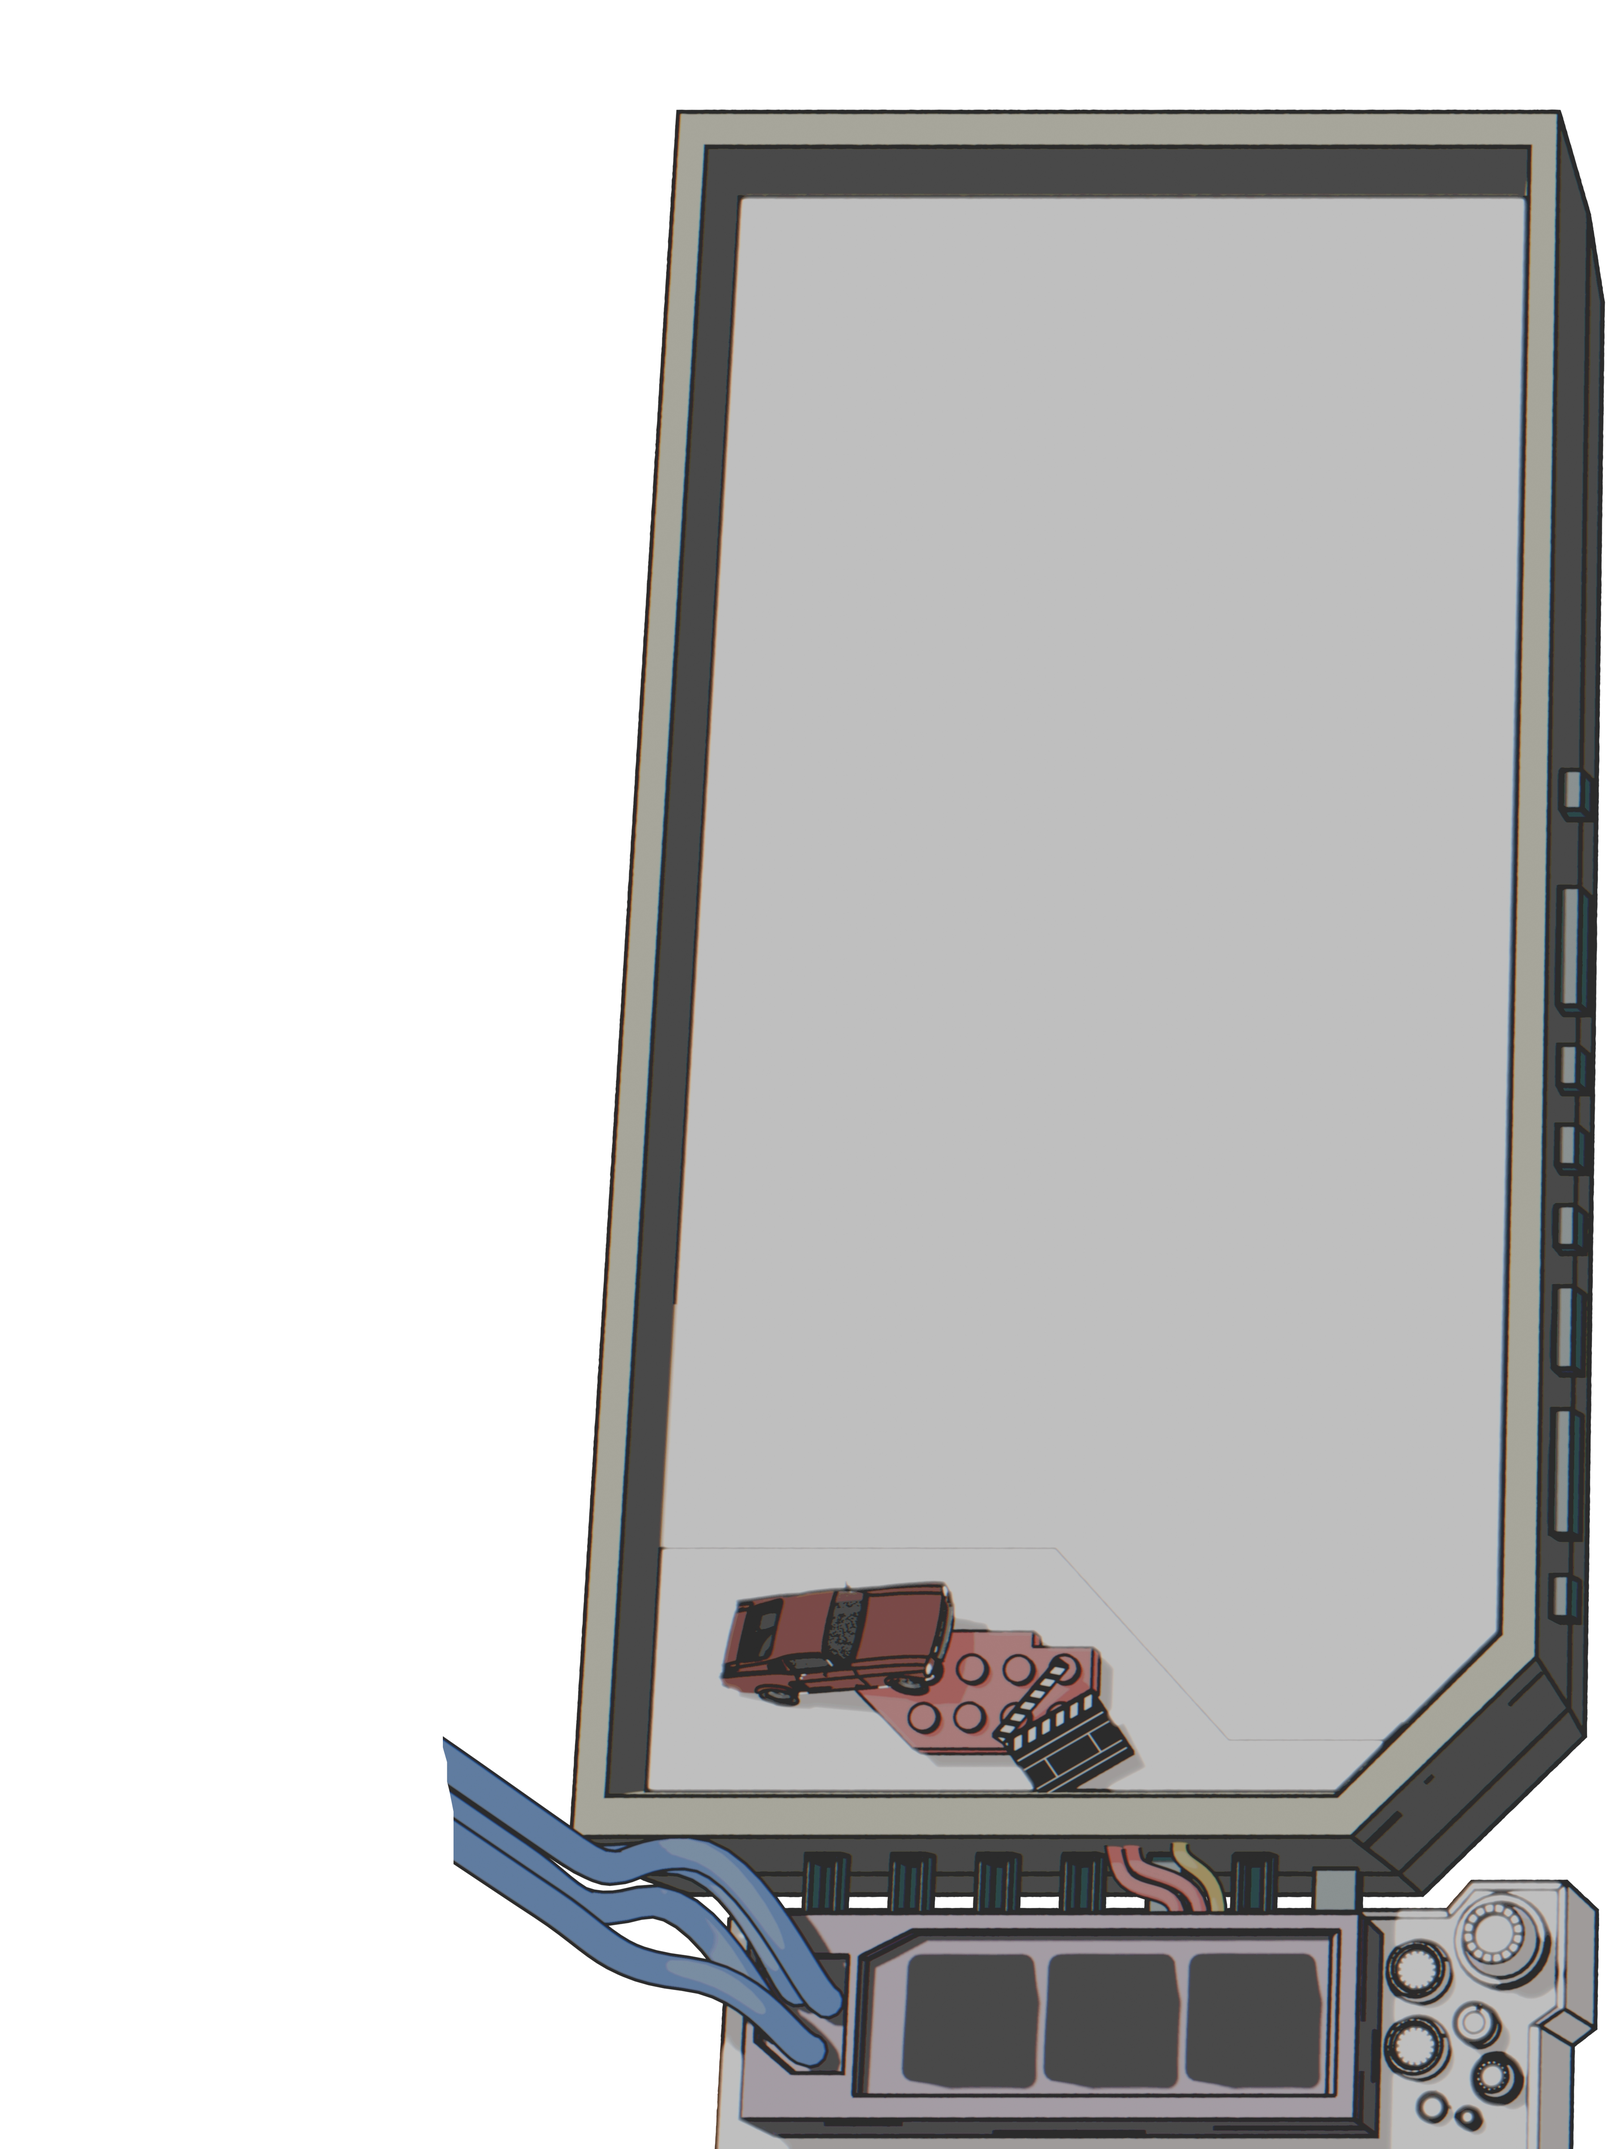
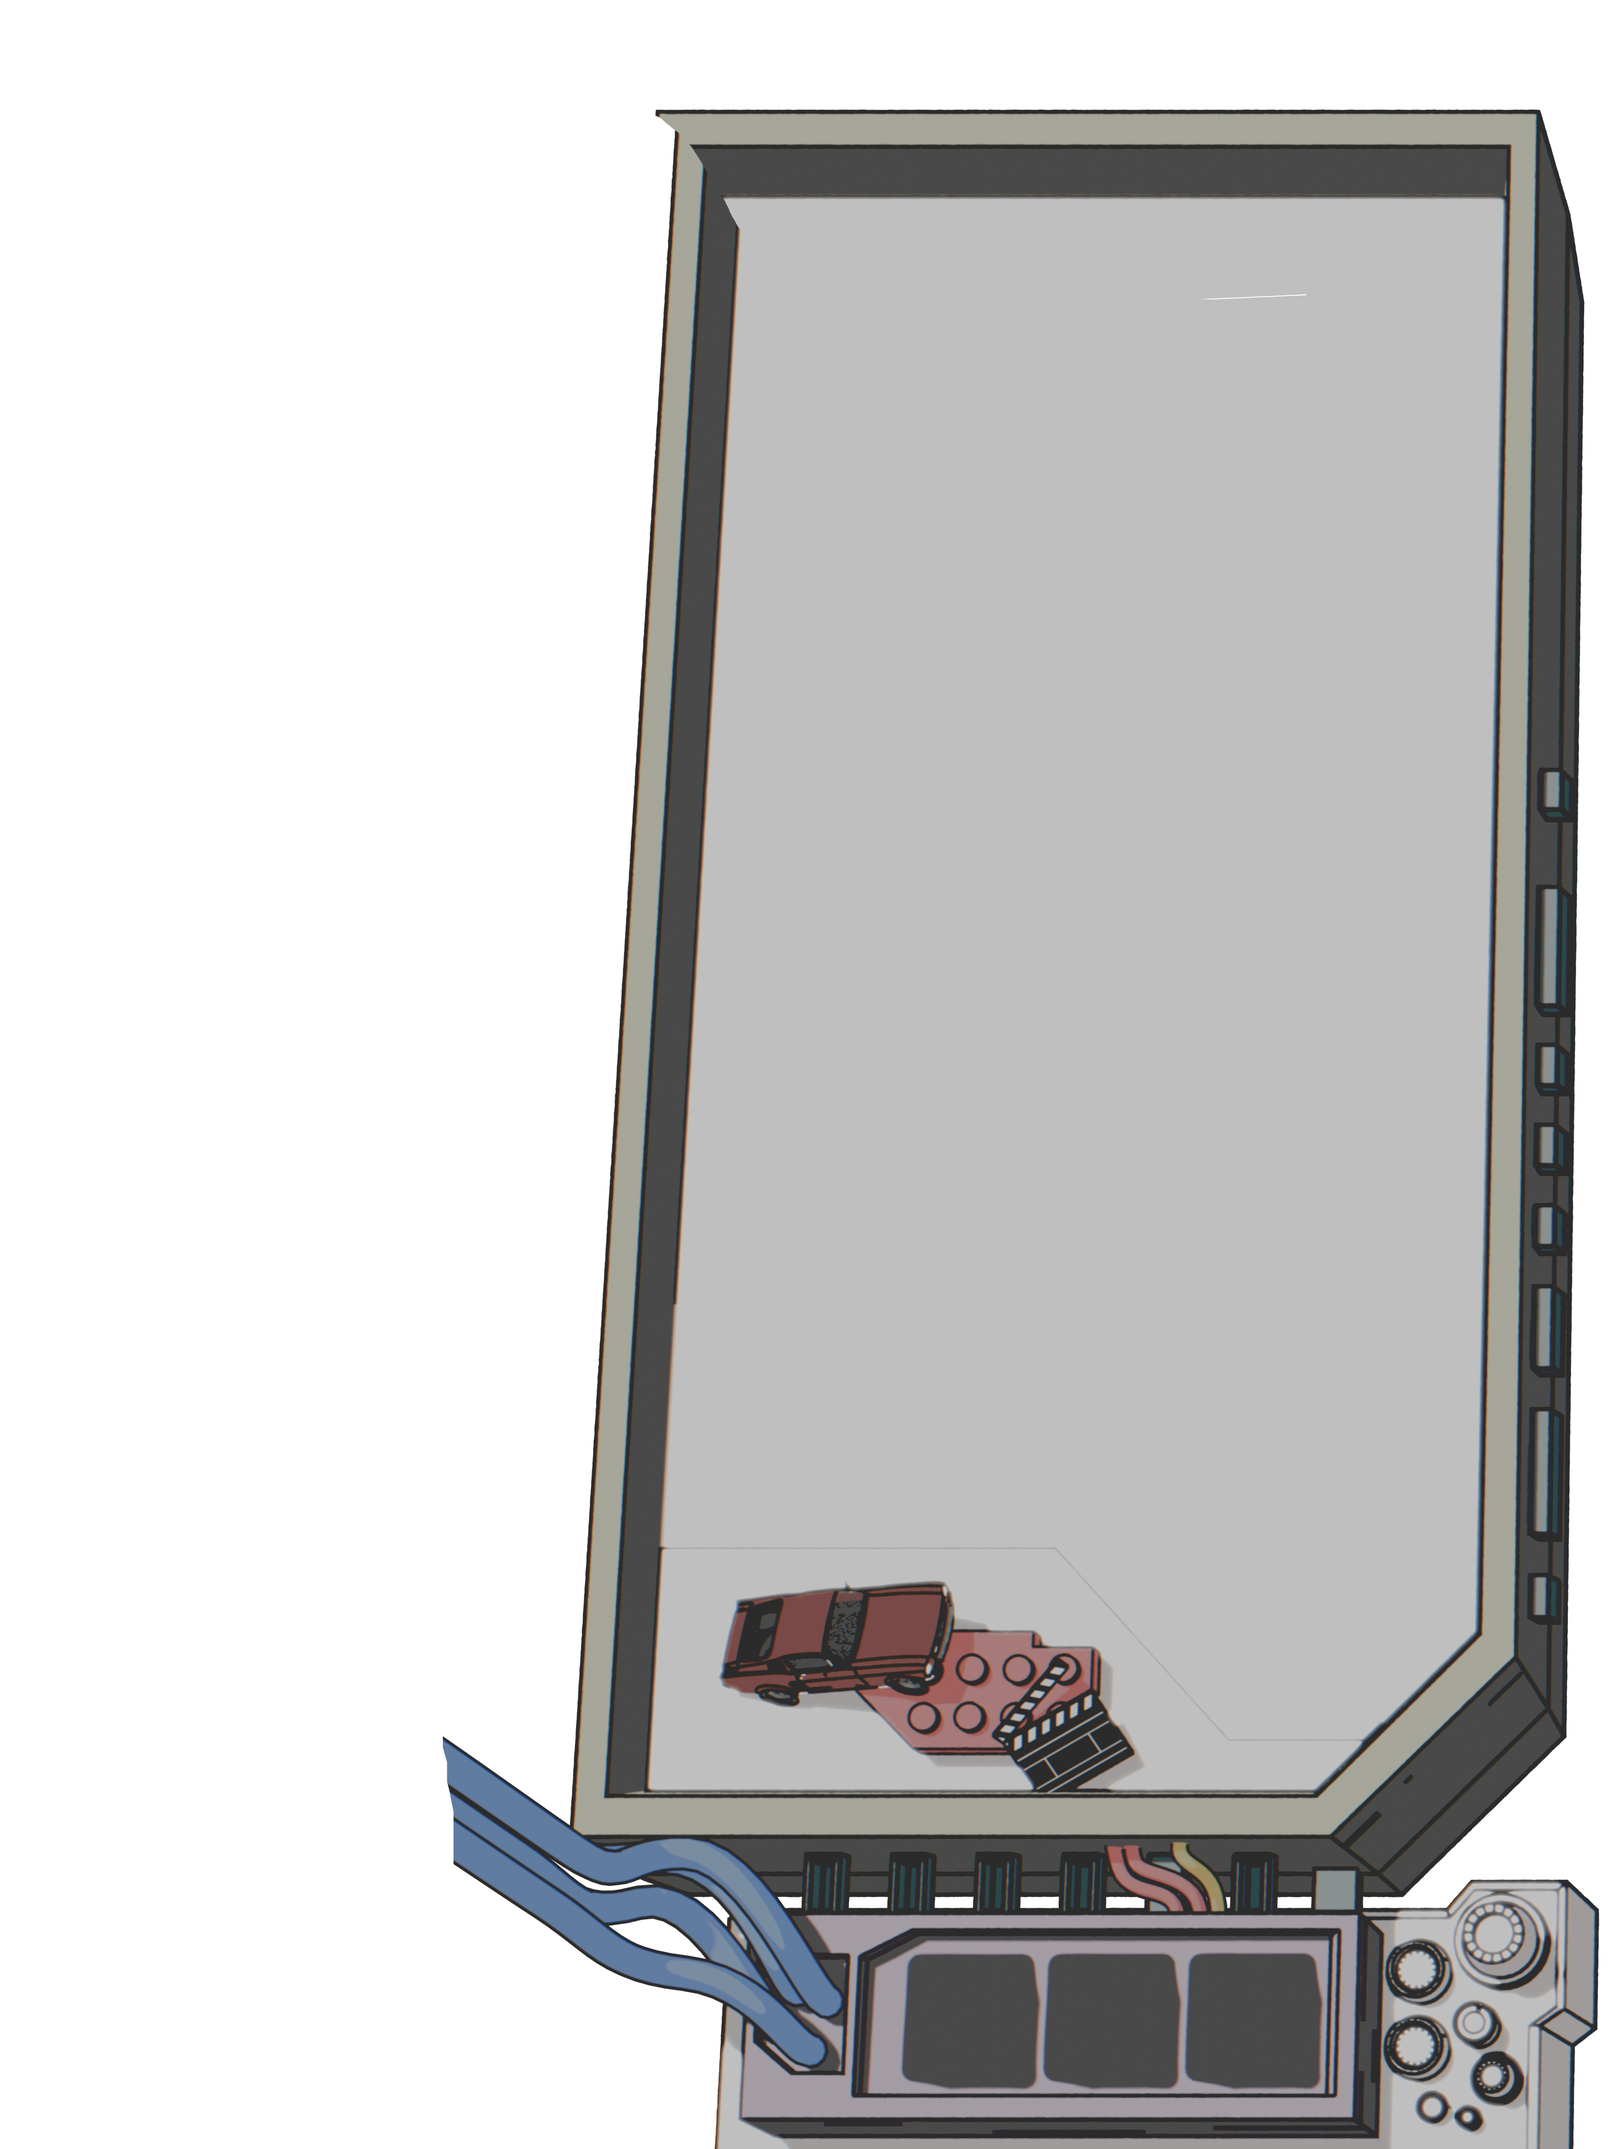
Avancement Fiche projets + bouton retour aux projets en mobile

Changed region(s): [[0.8089, 0.0312, 0.9956, 0.9062], [0.4044, 0.0312, 0.4356, 0.0625]]

diff --git a/src/ProjectPage.jsx b/src/ProjectPage.jsx
@@ -2,92 +2,139 @@ import { useEffect, useRef, useState } from "react";
 import HoverCard from "./Components/hovercard";
 
 const cards = [
-  { title: "Briqueton", image: "lego.webp", video: "Lego.webm", techno: ["Unreal Engine", "Blender"] },
-  { title: "Bomberman", image: "bomberman.webp", video: "bomberman.webm", techno: ["Unreal Engine", "C++", "Blender", "Krita"] },
-  { title: "Make Your Stand", image: "mys.webp", techno: ["Unreal Engine", "ReactJS", "Blender", "Pixel Streaming"] },
-  { title: "Game Jam 'One\u00A0Room'", image: "flyme.webp", techno: ["Unreal Engine", "Blender"] },
-  { title: "Aigle", image: "aigle.webp", techno: ["Unreal Engine", "ReactJS", "Pixel Streaming"] },
+  { title: "Game Jam 'One\u00A0Room'", image: "flyme.webp", logo: "unreal.webp", techno: ["Unreal Engine", "Blender"],Description:"Projet réalisé en trio courant 2025. Dans ce projet je me suis principalement occupé de la partie 3d (Environnement, Player, Level Design), pendant que mes coéquipiers se sont occupés du Gameplay et de l'Audio. Le But du jeu est de trouver et délivrer les mouches caché dans la pièce, en esquivant les pièges" },
+  { title: "Briqueton", image: "lego.webp", video: "Lego.webm", logo: "unreal.webp", techno: ["Unreal Engine", "Blender"], Description:"Projet réalisé en 2024 à l'occasion d'un challenge proposé par le Youtuber @MATHIEU_YT. Dans ce projet je me suis principalement occupé de la partie 3d (Environnement, Player, Level Design), pendant que mon coéquipier s'est occupé du Gameplay et de l'Audio." },
+  { title: "Bomberman", image: "bomberman.webp", video: "bomberman.webm", logo: "unreal.webp", techno: ["Unreal Engine", "C++", "Blender", "Krita"] },
+  { title: "Make Your Stand", image: "mys.webp", logo: "unreal.webp", techno: ["Unreal Engine", "ReactJS", "Blender", "Pixel Streaming"] },
+  { title: "Aigle", image: "aigle.webp", logo: "react.webp", techno: ["Unreal Engine", "ReactJS", "Pixel Streaming"] },
+  { title: "Restootab", image: "restootab.webp", logo: "react.webp", techno: ["Unreal Engine", "ReactJS", "Pixel Streaming"] },
   { title: "Aigle", image: "", techno: ["Unreal Engine", "ReactJS", "Pixel Streaming"] },
-  { title: "Aigle", image: "", techno: ["Unreal Engine", "ReactJS", "Pixel Streaming"] },
-
 
 ];
 
 
 
-export default function Projects({CurrentMenu}) {
+export default function Projects({ CurrentMenu }) {
 
-  const [currentProject, setCurrentProject] = useState(null)
+  const [currentProject, setCurrentProject] = useState(null);
+  const [inProjectList, setInProjectList] = useState(true)
+
   const base = import.meta.env.BASE_URL;
 
   const handleClick = (project) => {
     console.log(project);
-
+    setInProjectList(false);
     setCurrentProject(currentProject && currentProject?.title == project.title ? null : project);
+  };
+
+  const handleReturn = () => {
+    setInProjectList(true);
+    setTimeout(() => {
+      setCurrentProject(null);
+    }, 500);
+    //setCurrentProject(currentProject && currentProject?.title == project.title ? null : project);
   };
 
   useEffect(() => {
     console.log(CurrentMenu);
   }, [CurrentMenu])
-  
+
 
   return (
     <div className=" h-full overflow-hidden xl:pl-4">
       <div className="absolute h-[100%] xl:w-[90%] w-full xl:ml-2  justify-center  overflow-hidden xl:p-4  z-0">
         {(
-          <div className="w-full h-full xl:p-6 xl:border-4 xl:border-b-6 xl:border-r-8 border-gris xl:shadow-abberation bg-[#ababab] ">
+          <div className="relative w-full h-full xl:p-6 xl:border-4 xl:border-b-6 xl:border-r-8 border-gris xl:shadow-abberation bg-[#ababab] ">
+
             <div className="absolute h-full w-full z-0 bg-[url('/Images/Grid.png')] bg-center bg-cover opacity-30 pointer-events-none"></div>
 
             <div className="w-full h-full xl:border-4 z-20 xl:border-t-8 xl:border-r-8 lg:p-8 border-blur border-gris overflow-hidden bg-radial from-green-950 from-20% to-[#101010]">
+              
+              
+              
+              
+              
               <div className="h-full w-full flex-col lg:border-2 lg:border-vert flex lg:shadow-neonblanc ">
+                <div className="h-20 items-center justify-between px-4 flex flex-row pointer-events-auto ">
 
-                <div className="h-24 items-center justify-between px-4 flex flex-row pointer-events-auto ">
-
-                  <div className=" lg:text-4xl text-2xl select-none text-shadow-neonblanc">
-                    {currentProject?.title}
+                    <div className=" lg:text-4xl text-2xl select-none  text-shadow-neonblanc">
+                      {currentProject?.title}
+                    </div>
+                    <div className="text-vert  xl:block hidden  lg:text-5xl text-2xl right-32  cursor-pointer  text-shadow-neonblanc z-5  " onClick={() => { handleReturn() }}>{"<--"}</div>
                   </div>
-                  <div className="text-vert flex   lg:text-5xl text-2xl right-32  cursor-pointer  text-shadow-neonblanc z-5  " onClick={() => { setCurrentProject(null) }}>{"<--"}</div>
-                </div>
-                {
-                  currentProject?.techno && <div className="flex flex-wrap">
-                    {currentProject?.techno.map((text) => (
-                      <div className="px-6 items-center lg:text-xl text-sm">- {text}</div>
-                    ))}
+                  <div className="flex flex-col h-auto w-full py-2">
+                    {
+                      currentProject?.techno && <div className="flex flex-wrap">
+                        {currentProject?.techno.map((text) => (
+                          <div className="pl-4 bold items-center lg:text-xl text-sm">{text} |</div>
+                        ))}
+                      </div>
+                    }
                   </div>
-                }
-                <div className="h-full w-full overflow-scroll">
-                  <div className="w-full flex flex-wrap  h-auto cursor-pointer">
+                
+                  <div className="flex w-full h-1/4 ">
                     <img
                       src={`${base}/projects/${currentProject?.image}`}
                       alt={currentProject?.title}
-                      className="  h-auto w-1/2  "
+                      className="  h-full xl:p-4 p-2  rounded-xl  "
                       loading="lazy"
                     />
-                    <div className="flex flex-col w-1/2 h-full justify-center items-center">ijikiki</div>
-                    <div className="flex flex-col w-1/2 h-full justify-center items-center">ijikiki</div>
+                    <div className="flex flex-col xl:w-2/3  h-full justify-start items-center p-2 text-sm xl:text-lg rounded-xl ">{currentProject?.Description}</div>
+                  </div>
 
+
+                  <div className=" w-full h-auto py-4 justify-start items-start min-h-0 xl:overflow-x-scroll overflow-y-auto  cursor-pointer flex flex-col xl:flex-row">
                     <img
                       src={`${base}/projects/${currentProject?.image}`}
                       alt={currentProject?.title}
-                      className=" flex h-auto w-1/2 right-0"
+                      className=" h-full p-2 rounded-xl "
                       loading="lazy"
                     />
                     <img
                       src={`${base}/projects/${currentProject?.image}`}
                       alt={currentProject?.title}
-                      className="  h-auto w-1/2 "
+                      className="  h-full  p-2 rounded-xl  aspect-video  "
+                      loading="lazy"
+                    />
+                    <img
+                      src={`${base}/projects/${currentProject?.image}`}
+                      alt={currentProject?.title}
+                      className="  h-full  p-2 rounded-xl    "
+                      loading="lazy"
+                    />
+                    <img
+                      src={`${base}/projects/${currentProject?.image}`}
+                      alt={currentProject?.title}
+                      className="  h-full  p-2 rounded-xl    "
                       loading="lazy"
                     />
                   </div>
-                </div>
-
               </div>
+
+
+
+
+
+
+
+
             </div>
           </div>
         )}
 
       </div>
-      <div id='liste' className={`${currentProject ? " xl:translate-x-[97%] translate-x-[100%]  " : " "}flex  flex-row relative xl:border-l-6 w-[100%] bg-[#ababab]  border-gris xl:shadow-abberation transition-transform duration-[500ms]  h-[100%] z-50 `}>
+      <div id='liste' className={`${!inProjectList ? " xl:translate-x-[97%] translate-x-[100%]  " : " "}flex  flex-row relative xl:border-l-6 w-[100%] bg-[#ababab]  border-gris xl:shadow-abberation transition-transform duration-[500ms]  h-[100%] z-50 `}>
+        <div className={`absolute  xl:hidden  -left-[45px] z-20 border-2 h-1/6 rounded-l-2xl bottom-1/8  w-[45px] border-gris  bg-gray-300  `}>
+          <span className="-rotate-90 absolute top-1/2 left-1/2 -translate-x-1/2 -translate-y-1/2 text-gris text-xl font-bold" onClick={() => { handleReturn() }}>
+
+            RETOUR
+          </span>
+
+        </div>
+
+
+
+
         <div className={` xl:block hidden top-0 -left-2 border-r-4  h-full  w-[25px] border-gris  bg-[#666666] `}></div>
 
         <div className="grid w-full grid-cols-2 xl:grid-cols-3 h-full overflow-y-scroll lg:p-4  justify-start xl:gap-6 lg:gap-4 gap-0.5 ">

diff --git a/src/Components/hovercard.jsx b/src/Components/hovercard.jsx
@@ -31,12 +31,19 @@ export default function HoverCard({ project, handler} )  {
               loading="lazy"
             />
           }
+          {project.logo &&
+            <img
+              src={`${base}/Images/${project.logo}`}
+              alt={project.title}
+              className="absolute z-50 object-cover pointer-events-none h-[15%] rounded-4xl backdrop-blur-xs right-2 bottom-2   w-auto "
+              loading="lazy"
+            />}
           <div className="absolute  duration-300  flex items-end  z-50  w-full h-full  justify-center xl:opacity-0 xl:hover:opacity-100 cursor-pointer transition-opacity  ">
             <div onMouseEnter={handleMouseEnter} onMouseLeave={handleMouseLeave} className="  h-full  w-full object-cover">
               <video ref={videoRef} src={`${base}/videos/${project.video}`} className="h-full object-cover pointer-events-none select-none [&::-webkit-media-controls]:hidden" controls={false} muted defaultMuted loop autoPlay preload='auto'   playsInline />
             </div>
             <div className="absolute h-full bottom-0  z-10 w-full bg-[linear-gradient(to_top,_rgba(0,0,0,0.8)_0%,_rgba(0,0,0,0.2)_20%,_transparent_100%)] pointer-events-none"></div>
-            <p className="absolute text-vert lg:text-xl z-50 pb-2 font-bold transition">{project.title}</p>
+            <p className="absolute text-vert lg:text-xl text-sm z-50 xl:pb-2 font-bold transition">{project.title}</p>
           </div>
         </div>
 

diff --git a/src/App.jsx b/src/App.jsx
@@ -22,8 +22,18 @@ function App() {
       ]
     ;
 
+  const [offset, setOffset] = useState({ x: 0, y: 0 });
+
+  const handleMouseMove = (e) => {
+    const { innerWidth, innerHeight } = window;
+    const x = (e.clientX / innerWidth - 0.5) * -10; // sensibilité
+    const y = (e.clientY / innerHeight - 0.5) * -10;
+    setOffset({ x, y });
+  };
+
   return (
-    <div className='h-screen w-screen font-Victor flex xl:flex-row flex-col bg-[] bg-cover bg-bottom-left  overflow-x-hidden' style={{backgroundImage: `url(${Background})`}}>
+    <div className='h-screen w-screen font-Victor flex xl:flex-row flex-col bg-[] bg-cover bg-bottom-left  overflow-clip' onMouseMove={handleMouseMove}     >
+      <div className='fixed h-full w-full overflow-clip -z-50'   style={{backgroundImage: `url(${Background})`,          transform: `translate(${offset.x}px, ${offset.y}px) scale(1.05)`,}}></div>
       <div className="absolute w-screen h-screen opacity-10 z-50 pointer-events-none bg-[url(/Images/Noise.jpg)]"></div>
         
         { !isMobile && <Header currentMenu={currentMenu} setCurrentMenu={setCurrentMenu} Menus={Menus}/>

diff --git a/src/Components/Header.jsx b/src/Components/Header.jsx
@@ -8,7 +8,7 @@ export default function Header({currentMenu,setCurrentMenu,Menus}) {
 
     return (
       <div className="flex w-[620px] mr-16 perspective-near perspective-origin-bottom-right h-[100vh] ">
-        <div className="w-full h-full bg-cover bg-size-[200%] bg-no-repeat bg-right-bottom  bg-[url(/Images/Untitled.webp)]"></div>
+        <div className="w-full h-full bg-cover bg-size-[200%] bg-no-repeat bg-right-bottom  bg-[url(/Images/Untitled.webp)] "></div>
         <a href='https://github.com/PierreLouisBouchez' 
         target="_blank" 
         className="absolute bottom-[3.3rem]  left-[3.7rem] flex h-[6.6rem] max-h-[6.6rem] rounded-2xl cursor-pointer w-[6.6rem] hover:-translate-z-1 transition-transform align-bottom">

diff --git a/dist/index.html b/dist/index.html
@@ -5,8 +5,8 @@
     <link rel="icon" type="image/svg+xml" href="/PLBouchez-portfolio/vite.svg" />
     <meta name="viewport" content="width=device-width, initial-scale=1.0" />
     <title>PortFolio Pierre-Louis</title>
-    <script type="module" crossorigin src="/PLBouchez-portfolio/assets/index-C7yffeJX.js"></script>
-    <link rel="stylesheet" crossorigin href="/PLBouchez-portfolio/assets/index-7ekUBn2e.css">
+    <script type="module" crossorigin src="/PLBouchez-portfolio/assets/index-DckvIRmz.js"></script>
+    <link rel="stylesheet" crossorigin href="/PLBouchez-portfolio/assets/index-CdW2D4Cd.css">
   </head>
   <body>
     <div id="root"></div>
